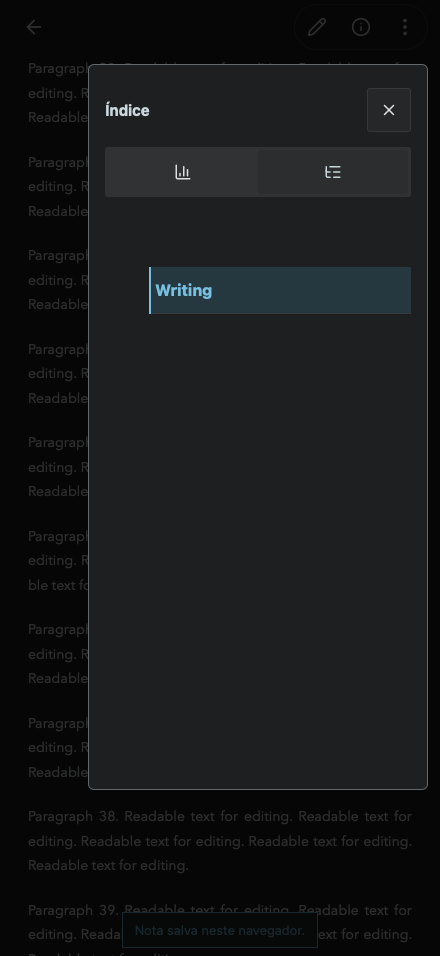
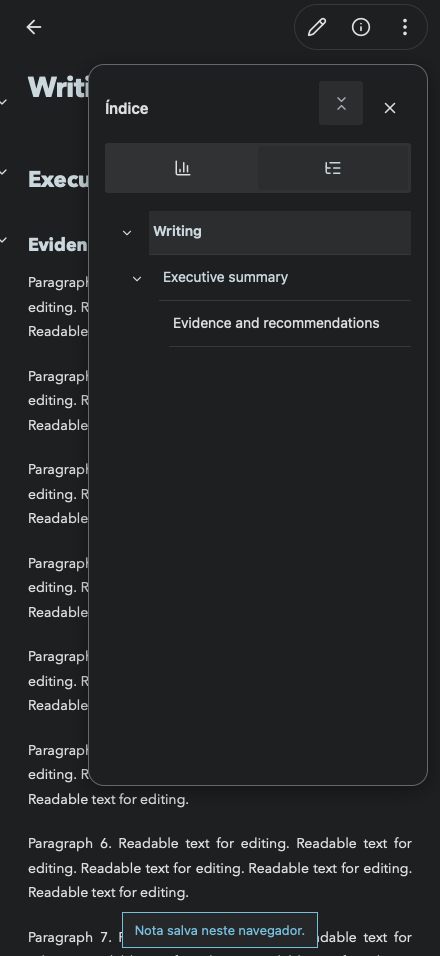
docs: record verified web deployment and TestFlight build 13 upload

diff --git a/docs/evidence/deploy-20261021/README.md b/docs/evidence/deploy-20261021/README.md
@@ -1,0 +1,20 @@
+# Public release — 21 October 2026
+
+Production: https://scriba.aeonbridge.app/
+
+Source release: `ff3ed5c` on `ab-orbit/ab-markdow-editor/main`.
+Active directory: `/var/www/scriba/releases/20261021T120200Z-public-1.16.1-build13`.
+Previous release retained: `/var/www/scriba/releases/20261020T125400Z-public-1.16.1-ui`.
+
+Public build: `VITE_STORAGE_MODE=browser npm run build`. Only static `dist/` files were uploaded. Nginx configuration passed validation; the active symlink was replaced atomically and nginx reloaded. Gateway and visitor data were preserved.
+
[1 lines of base64/hex data omitted]
+
+Live HTTPS checks:
+
+- [Desktop mandatory background autosave](desktop.txt): legacy opt-out ignored, commit prompts skipped, focus preserved through consecutive saves.
+- [WebKit mobile flow](mobile.txt): cursor preservation, three menu actions, two information tabs, hierarchy folding, heading navigation, export and Settings.
+- [Offline and privacy checks](offline.txt): service-worker offline save, persistence after reload, isolated browser contexts and no local filesystem API traffic. `/api/files` returns 404. [Offline mobile capture](offline-mobile.png).
+- [Visual evidence in dark/light themes](../mobile-simplification/README.md).
+
+The iOS upload is separate: [1.16.1 (13)](../ios-1.16.1-build13/README.md). Successful upload does not itself establish availability to testers.

diff --git a/docs/evidence/ios-1.16.1-build13/README.md b/docs/evidence/ios-1.16.1-build13/README.md
@@ -2,6 +2,6 @@
 
 Mandatory background autosave now applies to desktop and mobile, including legacy preferences that disabled saving. Automatic saves preserve editing focus and skip commit-message prompts. Version conflicts remain protected. Mobile uses a three-action Import/Export/Settings menu and a two-tab Statistics/Outline information sheet. Outline typography and menu styling are lighter in both themes.
 
-The signed iOS archive succeeded on 21 October 2026. Upload is in progress; processing and tester availability will be recorded after confirmation. The App Store review submission is not being resubmitted.
+The signed iOS archive succeeded on 21 October 2026. Xcode confirmed successful upload at 09:01:15 Recife. App Store Connect redirected to sign-in when refreshing builds; processing and tester-group availability remain unverified pending owner authentication. [Upload log](upload.log). The App Store review submission is not being resubmitted.
 
 Validation: 72 Node tests; Chromium/WebKit mobile and desktop background-autosave journeys; portrait/landscape cursor preservation; information tabs, global folding, Markdown export and Settings navigation. See [mobile evidence](../mobile-simplification/README.md).

diff --git a/docs/app-store/README.md b/docs/app-store/README.md
@@ -1,6 +1,6 @@
 # Scriba for iPhone and iPad
 
-Release preparation: **1.16.1 (13)** includes mandatory background autosave on desktop/mobile, the compact three-action mobile menu, Statistics/Outline information tabs and lighter navigation styling. Signed archive succeeded on 21 October 2026; upload and tester availability are tracked in [release evidence](../evidence/ios-1.16.1-build13/README.md).
+Latest confirmed upload: **1.16.1 (13)** on 21 October 2026 at 09:01 Recife. Xcode confirmed successful upload. This build adds mandatory background autosave on desktop/mobile, compact mobile actions and lighter Statistics/Outline navigation. Apple processing and tester-group availability await verification after App Store Connect sign-in. [Release evidence](../evidence/ios-1.16.1-build13/README.md).
 
 The iOS application bundles the editor, renderers, fonts and reference notes with Capacitor 8.5.3. It does not load the production website as its application shell. The web/PWA and local Mac application remain separate builds and separate private libraries.
 

diff --git a/docs/PRODUCTION.md b/docs/PRODUCTION.md
@@ -2,7 +2,7 @@
 
 Production: https://scriba.aeonbridge.app/
 
-Latest deployment: [20 October 2026 — editor UI, new H1 notes and unified exports](evidence/deploy-20261020-ui/README.md).
+Latest deployment: [21 October 2026 — multilingual editor, mandatory background autosave and compact navigation](evidence/deploy-20261021/README.md).
 
 The public build uses `VITE_STORAGE_MODE=browser npm run build`. Nginx serves `dist/` and proxies `/github/` to the isolated synchronization gateway. No local filesystem API or server Git checkout is published. Notes, attachments, pins, and preferences live in the visitor's origin-scoped IndexedDB. Clearing site data removes them. Export ZIP backups or configure the optional GitHub destination for file synchronization between devices.
 
